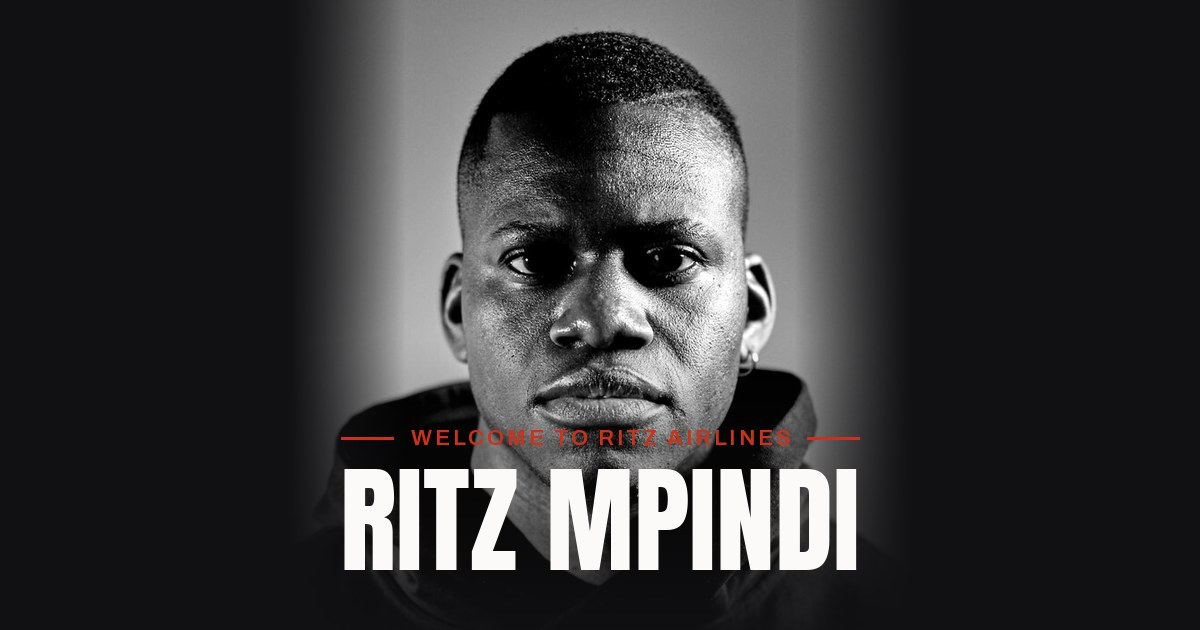
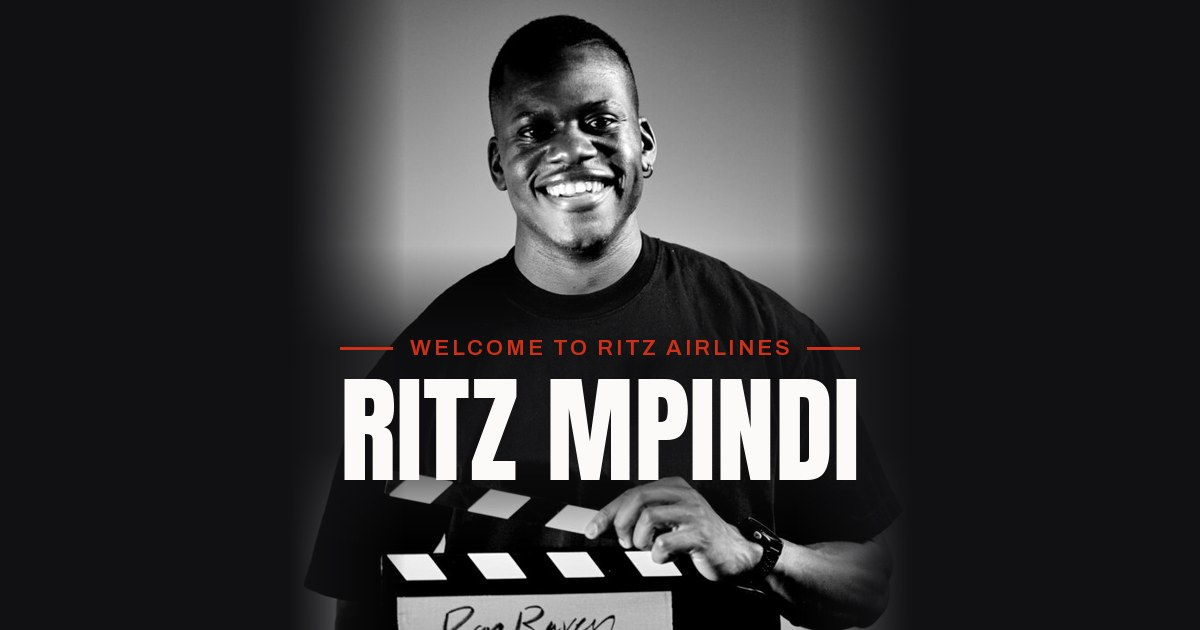
Use the clapperboard portrait for the link preview image

Changed region(s): [[0.2467, 0.0, 0.74, 1.0], [0.2467, 0.9349, 0.2775, 1.0], [0.7092, 0.9952, 0.74, 1.0]]

diff --git a/index.html b/index.html
@@ -1,4 +1,4 @@
-<!doctype html><html lang="en"><head><meta charset="utf-8"><title>Welcome to Ritz Airlines</title><meta property="og:title" content="Welcome to Ritz Airlines"><meta property="og:url" content="https://ritzmpindi.com/"><meta property="og:type" content="website"><meta name="description" content="Moving capital, relevance and influence through relationships."><meta property="og:site_name" content="Ritz Mpindi"><meta property="og:description" content="Moving capital, relevance and influence through relationships."><meta property="og:image" content="https://ritzmpindi.com/og-image.jpg"><meta property="og:image:secure_url" content="https://ritzmpindi.com/og-image.jpg"><meta property="og:image:type" content="image/jpeg"><meta property="og:image:width" content="1200"><meta property="og:image:height" content="630"><meta property="og:image:alt" content="Portrait of Ritz Mpindi with the words Welcome to Ritz Airlines"><meta name="twitter:card" content="summary_large_image"><meta name="twitter:title" content="Welcome to Ritz Airlines"><meta name="twitter:description" content="Moving capital, relevance and influence through relationships."><meta name="twitter:image" content="https://ritzmpindi.com/og-image.jpg"><meta name="twitter:image:alt" content="Portrait of Ritz Mpindi with the words Welcome to Ritz Airlines"><meta name=viewport content="width=device-width,initial-scale=1,viewport-fit=cover"><style>:root{color-scheme:light;box-sizing:border-box;padding-top:env(safe-area-inset-top,0px);padding-bottom:env(safe-area-inset-bottom,0px)}html{scroll-padding-top:env(safe-area-inset-top,0px)}body{margin:0;padding:0;font:14px -apple-system,BlinkMacSystemFont,sans-serif;background:#fff;color:#000}img{max-width:100%}[hidden]:not([hidden=until-found i]){display:none!important}</style>
+<!doctype html><html lang="en"><head><meta charset="utf-8"><title>Welcome to Ritz Airlines</title><meta property="og:title" content="Welcome to Ritz Airlines"><meta property="og:url" content="https://ritzmpindi.com/"><meta property="og:type" content="website"><meta name="description" content="Moving capital, relevance and influence through relationships."><meta property="og:site_name" content="Ritz Mpindi"><meta property="og:description" content="Moving capital, relevance and influence through relationships."><meta property="og:image" content="https://ritzmpindi.com/og-image.jpg?v=2"><meta property="og:image:secure_url" content="https://ritzmpindi.com/og-image.jpg?v=2"><meta property="og:image:type" content="image/jpeg"><meta property="og:image:width" content="1200"><meta property="og:image:height" content="630"><meta property="og:image:alt" content="Ritz Mpindi smiling and holding a film clapperboard, with the words Welcome to Ritz Airlines"><meta name="twitter:card" content="summary_large_image"><meta name="twitter:title" content="Welcome to Ritz Airlines"><meta name="twitter:description" content="Moving capital, relevance and influence through relationships."><meta name="twitter:image" content="https://ritzmpindi.com/og-image.jpg?v=2"><meta name="twitter:image:alt" content="Ritz Mpindi smiling and holding a film clapperboard, with the words Welcome to Ritz Airlines"><meta name=viewport content="width=device-width,initial-scale=1,viewport-fit=cover"><style>:root{color-scheme:light;box-sizing:border-box;padding-top:env(safe-area-inset-top,0px);padding-bottom:env(safe-area-inset-bottom,0px)}html{scroll-padding-top:env(safe-area-inset-top,0px)}body{margin:0;padding:0;font:14px -apple-system,BlinkMacSystemFont,sans-serif;background:#fff;color:#000}img{max-width:100%}[hidden]:not([hidden=until-found i]){display:none!important}</style>
 </head>
 <body>
 <link rel="preconnect" href="https://fonts.googleapis.com">
